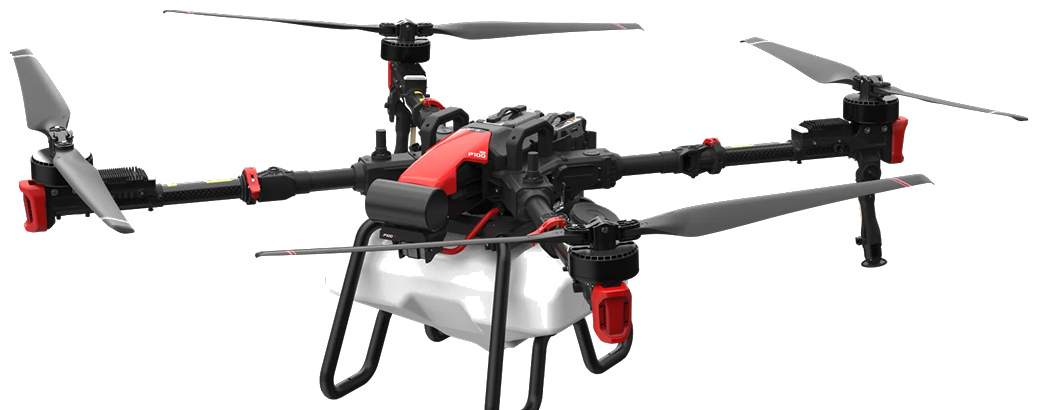
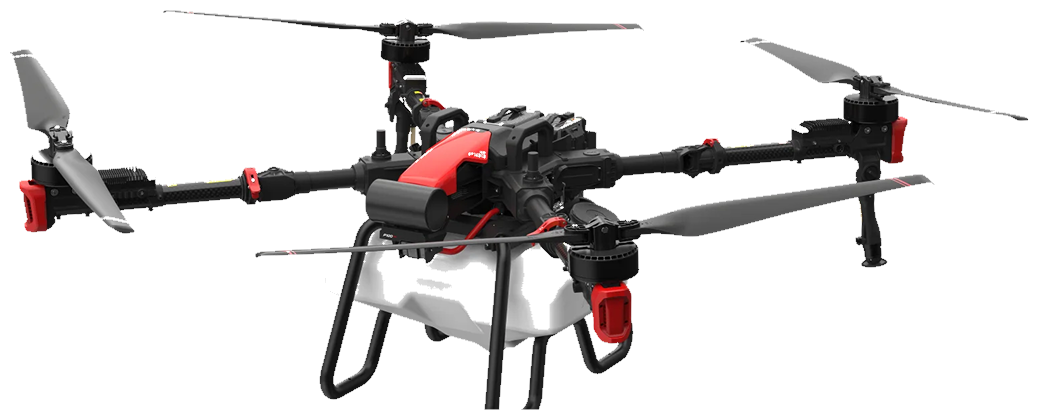
Fix drone image edge artifacts and overflow bleed
Clean cutout fringe pixels, pull image inward 3%, add overflow-hidden
on card frame to prevent blue edge lines on sides.

diff --git a/src/components/CardOne.jsx b/src/components/CardOne.jsx
@@ -32,7 +32,7 @@ export default function CardOne() {
       onClick={() => window.open('https://agrifuture.tech/collections/p100-pro', '_blank')}
     >
       <motion.div
-        className="absolute inset-0 rounded-[18px]"
+        className="absolute inset-0 rounded-[18px] overflow-hidden"
         style={{ rotateX: rotX, rotateY: rotY, transformStyle: 'preserve-3d' }}
       >
         <div className="absolute inset-0 rounded-[18px] overflow-hidden">

diff --git a/src/components/DroneViz.jsx b/src/components/DroneViz.jsx
@@ -107,8 +107,8 @@ export default function DroneViz({ className = '', style = {} }) {
         style={{
           position: 'absolute',
           top: '8%',
-          left: '0%',
-          width: '100%',
+          left: '3%',
+          width: '94%',
           height: 'auto',
           transform: 'translateZ(0px)',
           pointerEvents: 'none',
